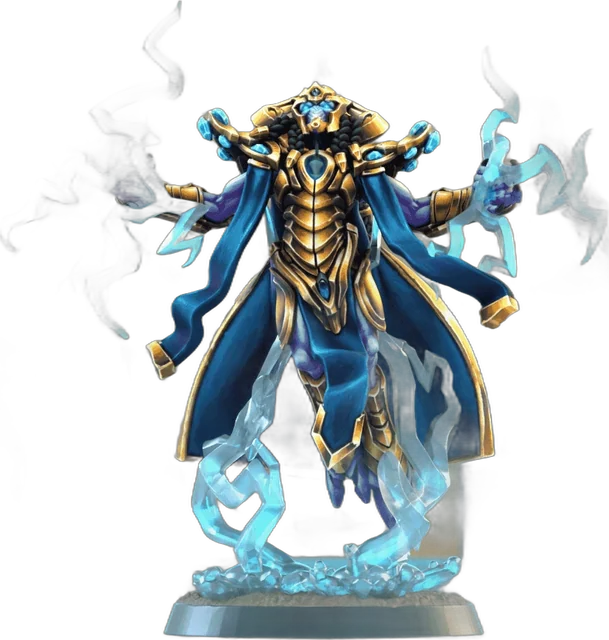
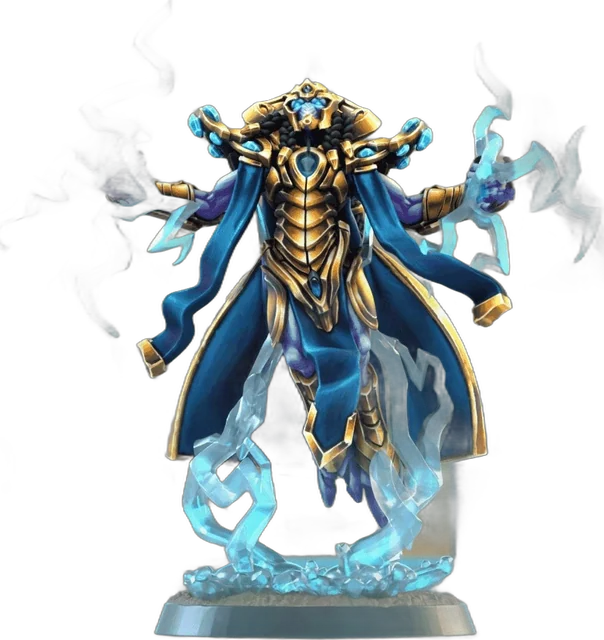
Cut-out miniatures for the Wave 2/3 publisher photos
- 14 per-unit cutouts (Siege Tank, Nova x2, Holo Decoy, Raven, Ravager,
  Zagara, Defiler, Bile Launcher, Omega Worm, Immortal, Tassadar, High
  Templar, Twilight Templar) from the publisher promo images, with crops
  that drop the unit-card scans, logos, tokens and twin models.
- Originals kept in portraits-src/remote/ (not published); preview.png
  shows each original beside its cutout.
- cutout-portraits.py reuses the saved originals (--redownload to fetch
  again) and only rebuilds local cutouts when not in --remote mode.

Claude-Session: https://claude.ai/code/session_01Ez6ZNYwREb7zWSe2pRXoFQ

diff --git a/scripts/cutout-portraits.py b/scripts/cutout-portraits.py
@@ -28,7 +28,17 @@ OUT = os.path.join(ROOT, 'portraits', 'cutout')
 MAX_H = 640  # px; cards draw at <=230px CSS height, viewer at screen size
 
 # Optional pre-crop for remote group photos: "faction/id": (left, top, right, bottom) as fractions.
-CROPS = {}
+CROPS = {
+    # Publisher promo images: keep the one model, drop the card scan, logo, tokens and twin.
+    'terran/siege-tank': (0.05, 0.10, 0.53, 0.82),      # Siege Mode tank, not the Tank Mode twin or size badge
+    'terran/nova-stealth': (0.00, 0.08, 0.56, 1.00),    # Nova, not the holo-decoy beside her
+    'terran/holo-decoy': (0.58, 0.00, 1.00, 1.00),      # the decoy only
+    'terran/raven': (0.00, 0.00, 0.53, 1.00),           # main Raven, not the close-up inset
+    'zerg/ravager': (0.67, 0.00, 1.00, 0.90),           # right-hand Ravager, no title text or tokens
+    'zerg/zagara': (0.47, 0.05, 0.92, 0.95),            # model, not the unit card behind it
+    'zerg/defiler': (0.52, 0.20, 1.00, 0.95),           # model, not the card or Dark Swarm token
+    'zerg/bile-launcher': (0.48, 0.05, 1.00, 0.95),     # model, not the card or bile token
+}
 
 
 def portrait_factions():
@@ -68,6 +78,7 @@ def load(src):
 
 
 SRC_DIR = os.path.join(ROOT, 'portraits-src', 'remote')
+REDOWNLOAD = False
 
 
 def cut_one(remove, session, im):
@@ -86,14 +97,21 @@ def cut_remote(remove, session, mapping, force):
     """One cutout per unit from publisher-hosted photos, plus a review sheet."""
     os.makedirs(SRC_DIR, exist_ok=True)
     downloaded, rows = {}, []
+    first = {}
+    for faction, uid, src in remote_units():
+        first.setdefault(src, os.path.join(SRC_DIR, '%s-%s.jpg' % (faction, uid)))
     for faction, uid, src in remote_units():
         key = faction + '/' + uid
         rel = 'portraits/cutout/%s/%s.webp' % (faction, uid)
         dest = os.path.join(ROOT, rel)
         try:
             if src not in downloaded:
-                downloaded[src] = load(src)
-                downloaded[src].save(os.path.join(SRC_DIR, '%s-%s.jpg' % (faction, uid)), quality=90)
+                saved = first[src]
+                if os.path.exists(saved) and not REDOWNLOAD:
+                    downloaded[src] = Image.open(saved).convert('RGB')
+                else:
+                    downloaded[src] = load(src)
+                    downloaded[src].save(saved, quality=90)
             im = downloaded[src]
         except Exception as e:
             print('skip', key, e, file=sys.stderr)
@@ -134,7 +152,10 @@ def main():
     ap = argparse.ArgumentParser()
     ap.add_argument('--remote', action='store_true')
     ap.add_argument('--force', action='store_true')
+    ap.add_argument('--redownload', action='store_true', help='fetch publisher photos again instead of using portraits-src/remote')
     args = ap.parse_args()
+    global REDOWNLOAD
+    REDOWNLOAD = args.redownload
     from rembg import remove, new_session
     session = new_session('isnet-general-use')
 
@@ -151,7 +172,7 @@ def main():
         name = uid if remote else os.path.splitext(os.path.basename(src))[0]
         rel = 'portraits/cutout/%s/%s.webp' % (faction, name)
         dest = os.path.join(ROOT, rel)
-        if os.path.exists(dest) and not args.force:
+        if os.path.exists(dest) and (not args.force or args.remote):
             mapping[src] = rel
             continue
         try:
